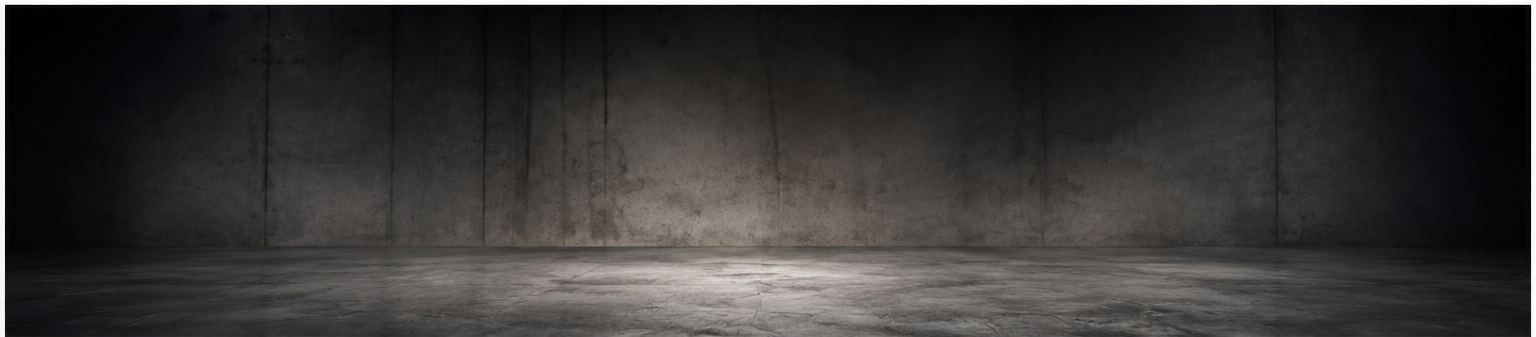
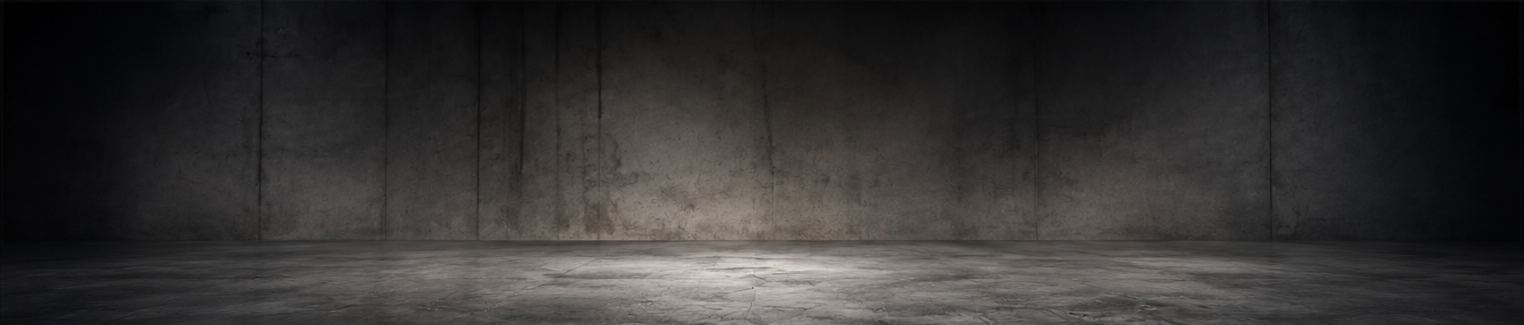
startseite: Hero-Boden ohne weiße Kanten und ohne Parallax-Override, Markenname in Karten ohne Flex-Gap, Prozess-Zeile lesbar

diff --git a/index.html b/index.html
@@ -101,7 +101,7 @@
 
     <!-- Kapitel 1: Hero (dunkel) -->
     <section class="hero-solutions parallax-container" id="top" data-nav-sentinel data-pill-sentinel>
-        <img src="assets/indie-solutions/backgrounds/background-03_dark-cinematic_web.jpg" alt="" aria-hidden="true" class="hero-solutions__floor parallax-bg" data-speed="0.15">
+        <img src="assets/indie-solutions/backgrounds/background-03_dark-cinematic_web.jpg" alt="" aria-hidden="true" class="hero-solutions__floor">
         <div class="container hero-solutions__center">
             <p class="kicker kicker--on-dark" data-animate="fade-up">indie<span class="brand-dot">.</span>solutions</p>
             <h1 class="hero-solutions__title" data-animate="fade-up">

diff --git a/style.css b/style.css
@@ -8168,10 +8168,6 @@ div[id].anchor-target {
     font-weight: 700;
     letter-spacing: -0.02em;
     color: var(--text-dark);
-    display: flex;
-    align-items: center;
-    gap: 0.6rem;
-    flex-wrap: wrap;
 }
 
 .family-card__role {
@@ -8897,4 +8893,9 @@ div[id].anchor-target {
 
 .capability-cards--dark .cap-sub {
     color: rgba(236, 242, 248, 0.75);
+}
+
+/* Prozess-Zeile bleibt auf dem hellen Bodenlicht lesbar */
+.hero-solutions__process {
+    text-shadow: 0 1px 10px rgba(5, 11, 19, 0.85), 0 0 24px rgba(5, 11, 19, 0.6);
 }
